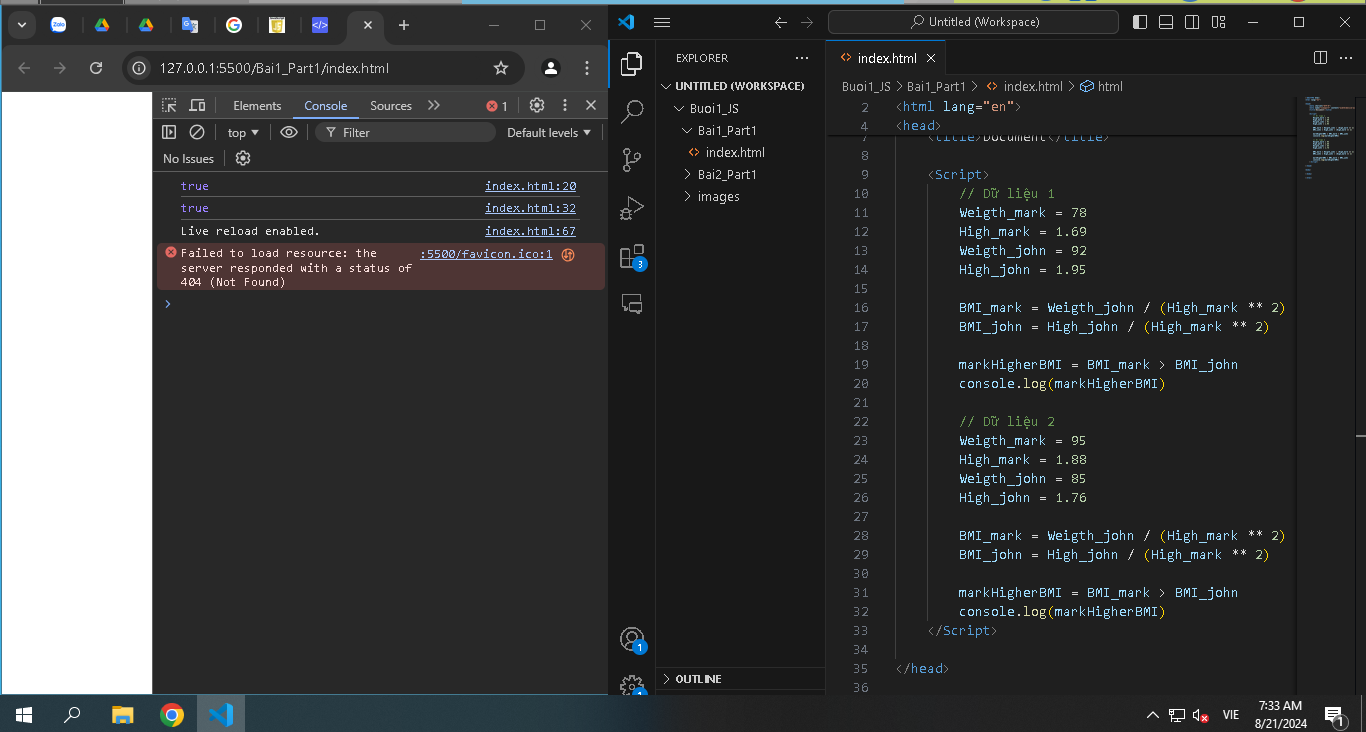
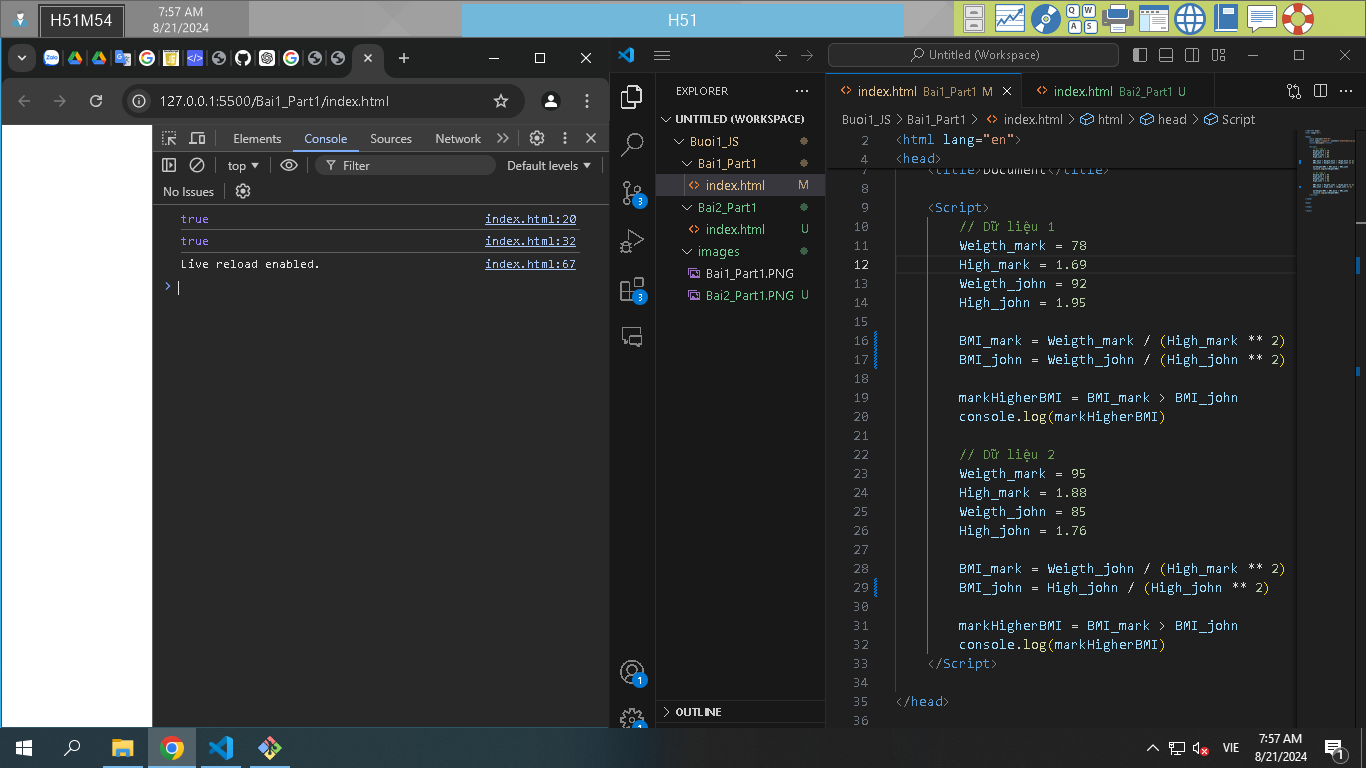
Bai2_Part1 va sua lai Bai1_Part1

diff --git a/Bai2_Part1/index.html b/Bai2_Part1/index.html
@@ -16,20 +16,10 @@
         BMI_mark = Weigth_mark / (High_mark ** 2)
         BMI_john = Weigth_john / (High_john ** 2)
 
-        markHigherBMI = BMI_mark > BMI_john
-        console.log(markHigherBMI)
-
-        // Dữ liệu 2
-        Weigth_mark = 95
-        High_mark = 1.88
-        Weigth_john = 85
-        High_john = 1.76
-
-        BMI_mark = Weigth_john / (High_mark ** 2)
-        BMI_john = High_john / (High_john ** 2)
-
-        markHigherBMI = BMI_mark > BMI_john
-        console.log(markHigherBMI)
+        if (BMI_mark > BMI_john)
+            console.log('BMI của Mark (' + BMI_mark + ') cao hơn BMI của John (' + BMI_john + ')')
+        else
+            console.log('BMI của Mark (' + BMI_mark + ') cao hơn BMI của John (' + BMI_john + ')')
     </Script>
 
 </head>
